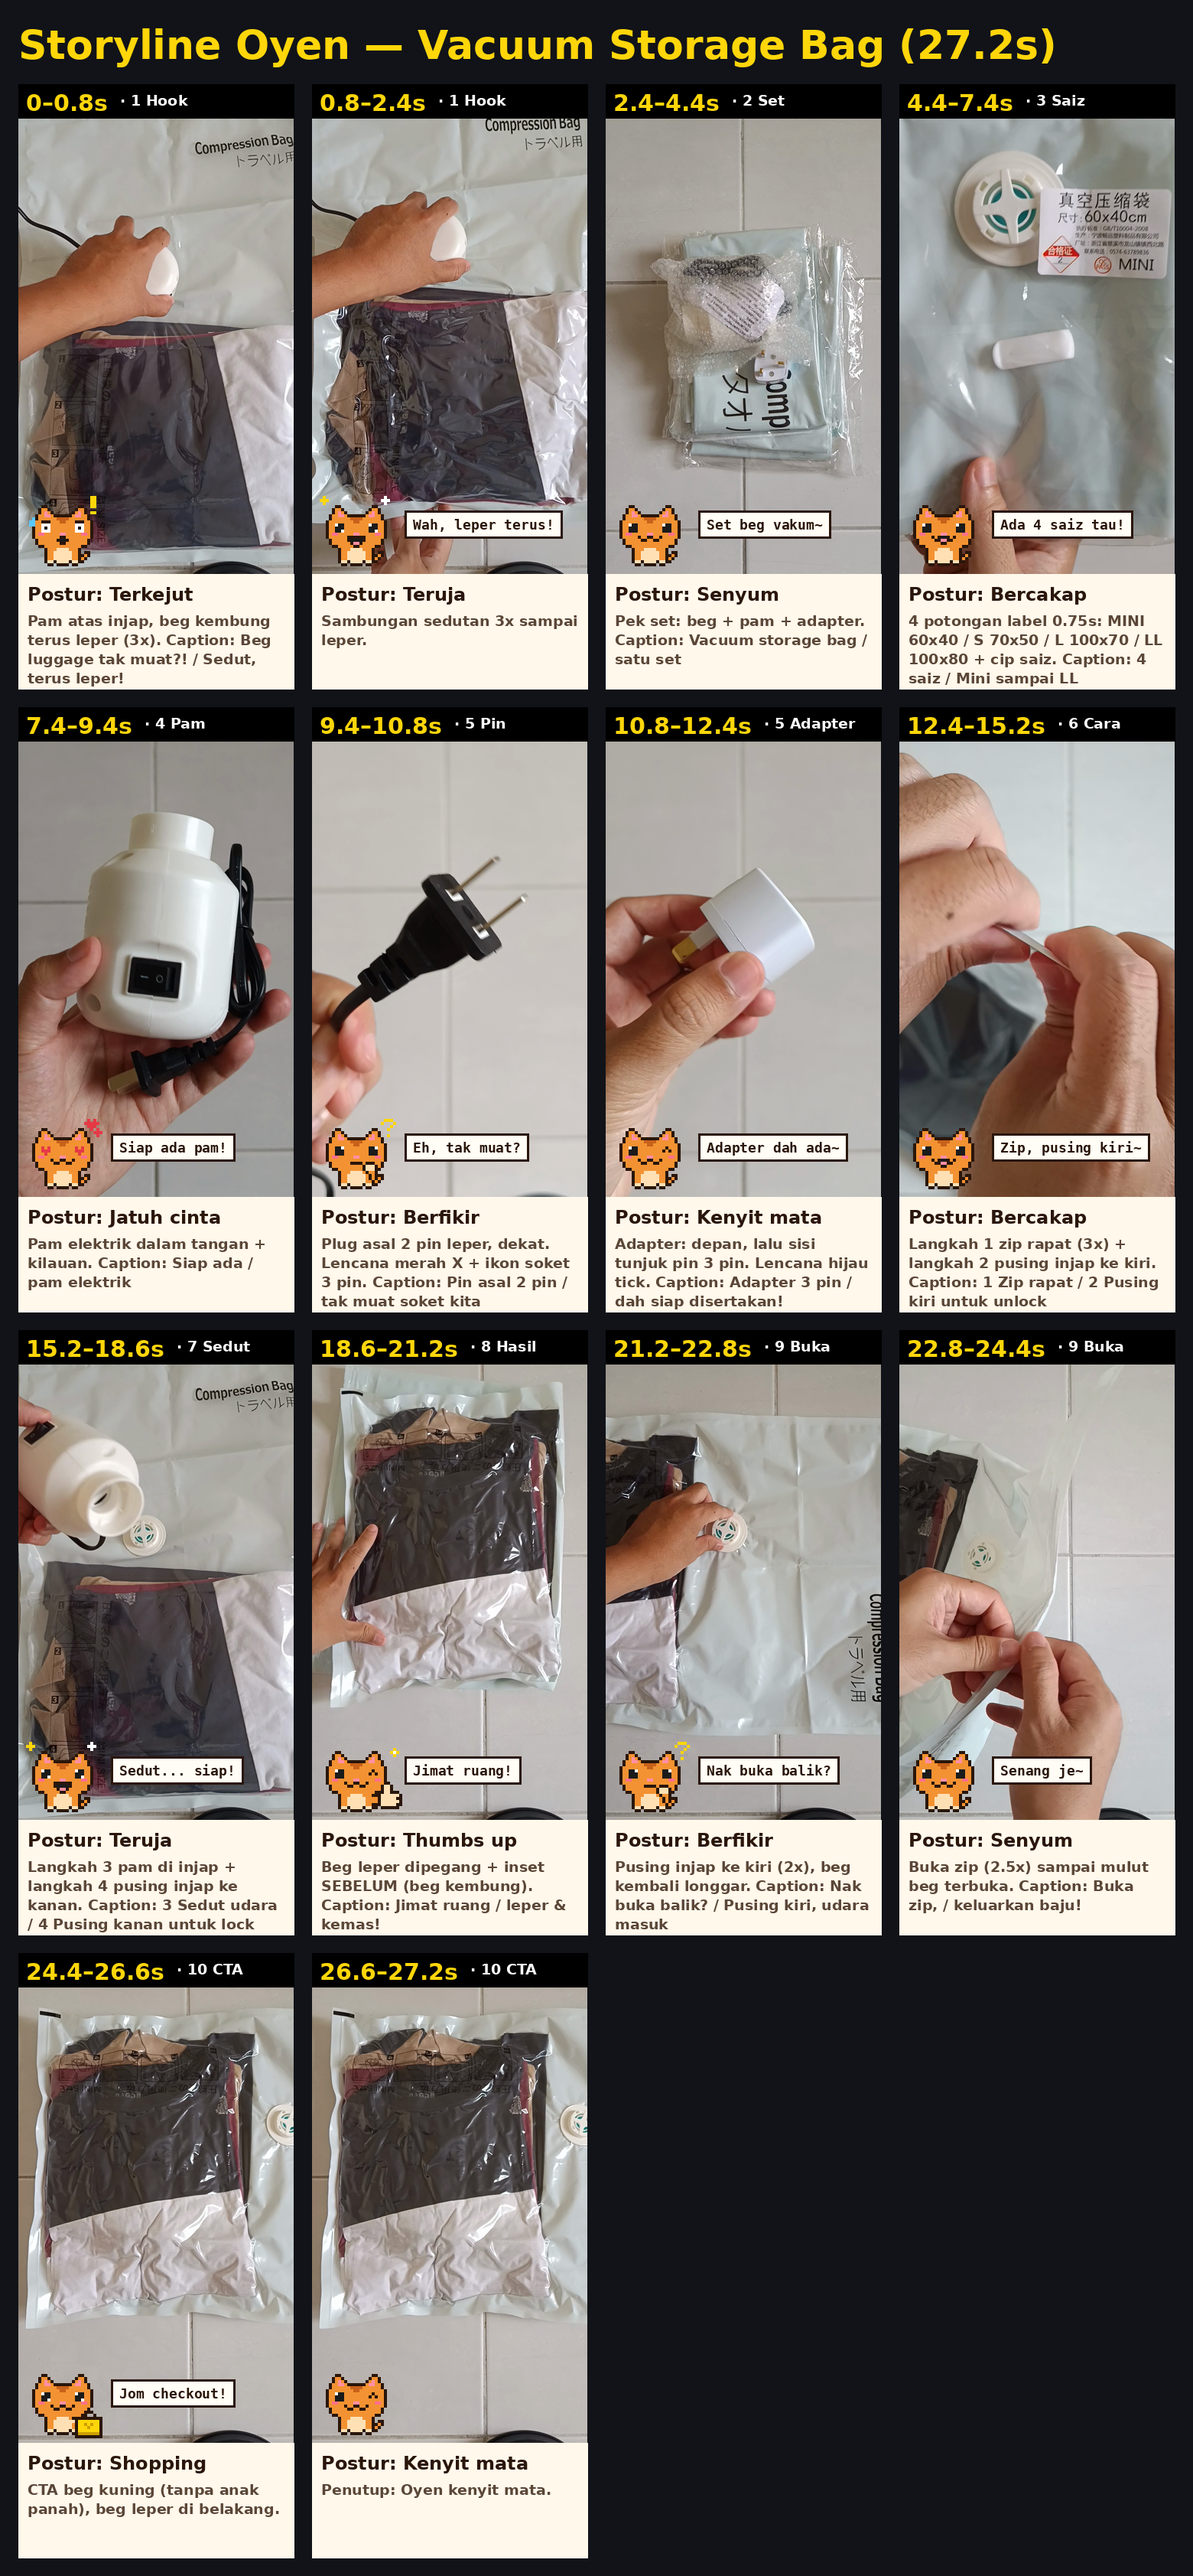
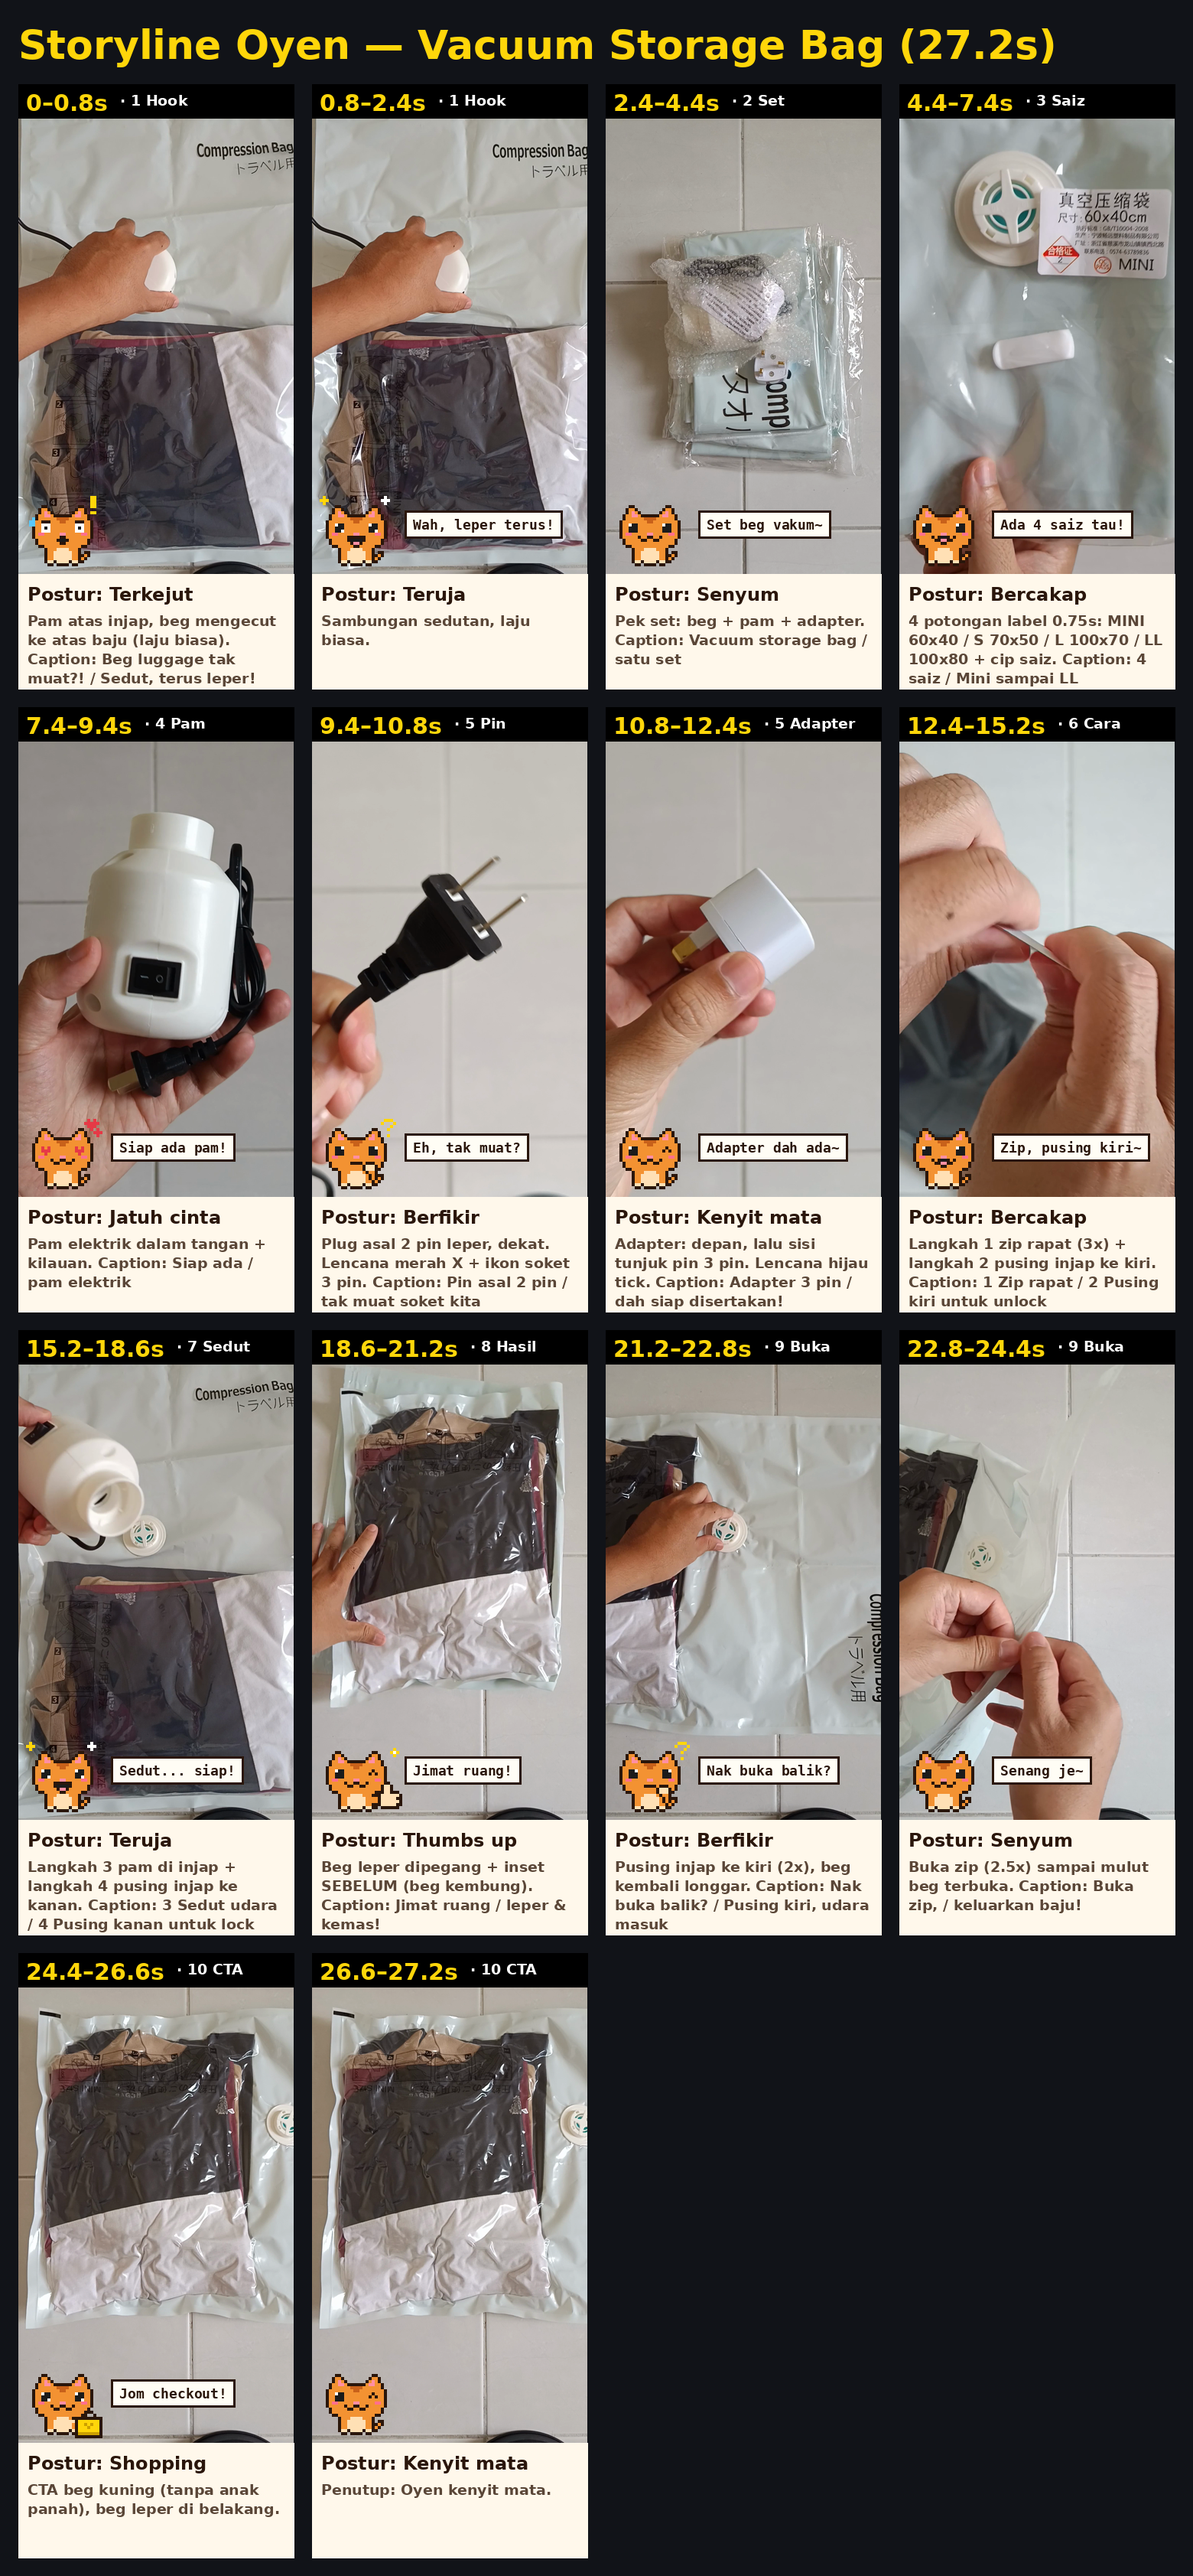
vacuum-storage-bag: hook at real speed
Claude-Session: https://claude.ai/code/session_01FSFWWRvHpWTAnMm2R9b5o9

diff --git a/videos/vacuum-storage-bag/index.html b/videos/vacuum-storage-bag/index.html
@@ -343,7 +343,7 @@
       <!-- ================= FOOTAGE (10 clips joined, muted; one .shot per cut) ================= -->
       <div id="card">
         <div class="shot" data-layout-allow-overflow id="sh1" style="transform-origin: 50% 40%">
-          <video id="v1" class="clip" src="assets/source-portrait.mp4" data-start="0" data-duration="2.4" data-media-start="91.2" data-playback-rate="3.6" data-track-index="0" muted playsinline></video>
+          <video id="v1" class="clip" src="assets/source-portrait.mp4" data-start="0" data-duration="2.4" data-media-start="94.0" data-track-index="0" muted playsinline></video>
         </div>
         <div class="shot" data-layout-allow-overflow id="sh2">
           <video id="v2" class="clip" src="assets/source-portrait.mp4" data-start="2.4" data-duration="2" data-media-start="1.2" data-track-index="0" muted playsinline></video>
@@ -580,7 +580,7 @@
       const sticker = (sel, at, rot = 0) =>
         tl.fromTo(sel, { opacity: 0, scale: 0.4, rotation: rot - 12 }, { opacity: 1, scale: 1, rotation: rot, duration: 0.3, ease: "back.out(2.4)" }, at);
 
-      // ---------- 1. HOOK: puffy bag sucked flat (3.6x), caption on frame 0 ----------
+      // ---------- 1. HOOK: bag shrinking onto the clothes (real speed), caption on frame 0 ----------
       tl.fromTo("#cap1 .kick", { opacity: 1 }, { opacity: 1, duration: 0.01 }, 0);
       tl.fromTo("#cap1 .big", { opacity: 1, scale: 1.2 }, { opacity: 1, scale: 1, duration: 0.3, ease: "back.out(2.4)" }, 0);
       tl.to("#cap1 .kick, #cap1 .big", { opacity: 0, duration: 0.14 }, 2.26);

diff --git a/videos/vacuum-storage-bag/storyline.py b/videos/vacuum-storage-bag/storyline.py
@@ -27,9 +27,9 @@ STORYLINE = Storyline(
     source="assets/source-portrait.mp4",
     beats=[
         Beat(0.0, 0.8, "1 Hook", "Terkejut", None,
-             "Pam atas injap, beg kembung terus leper (3x). Caption: Beg luggage tak muat?! / Sedut, terus leper!", src=91.9),
+             "Pam atas injap, beg mengecut ke atas baju (laju biasa). Caption: Beg luggage tak muat?! / Sedut, terus leper!", src=94.2),
         Beat(0.8, 2.4, "1 Hook", "Teruja", "Wah, leper terus!",
-             "Sambungan sedutan 3x sampai leper.", src=97.4),
+             "Sambungan sedutan, laju biasa.", src=95.5),
         Beat(2.4, 4.4, "2 Set", "Senyum", "Set beg vakum~",
              "Pek set: beg + pam + adapter. Caption: Vacuum storage bag / satu set", src=3.0),
         Beat(4.4, 7.4, "3 Saiz", "Bercakap", "Ada 4 saiz tau!",

diff --git a/videos/vacuum-storage-bag/storyboard/STORYLINE.md b/videos/vacuum-storage-bag/storyboard/STORYLINE.md
@@ -4,8 +4,8 @@ Generated by `python3 -m oyen storyboard` from `storyline.py`; edit that file, n
 
 | Masa (s) | Babak | Postur | Dialog Oyen | Nota |
 |---|---|---|---|---|
-| 0.00–0.80 | 1 Hook | Terkejut | — | Pam atas injap, beg kembung terus leper (3x). Caption: Beg luggage tak muat?! / Sedut, terus leper! |
-| 0.80–2.40 | 1 Hook | Teruja | Wah, leper terus! | Sambungan sedutan 3x sampai leper. |
+| 0.00–0.80 | 1 Hook | Terkejut | — | Pam atas injap, beg mengecut ke atas baju (laju biasa). Caption: Beg luggage tak muat?! / Sedut, terus leper! |
+| 0.80–2.40 | 1 Hook | Teruja | Wah, leper terus! | Sambungan sedutan, laju biasa. |
 | 2.40–4.40 | 2 Set | Senyum | Set beg vakum~ | Pek set: beg + pam + adapter. Caption: Vacuum storage bag / satu set |
 | 4.40–7.40 | 3 Saiz | Bercakap | Ada 4 saiz tau! | 4 potongan label 0.75s: MINI 60x40 / S 70x50 / L 100x70 / LL 100x80 + cip saiz. Caption: 4 saiz / Mini sampai LL |
 | 7.40–9.40 | 4 Pam | Jatuh cinta | Siap ada pam! | Pam elektrik dalam tangan + kilauan. Caption: Siap ada / pam elektrik |
